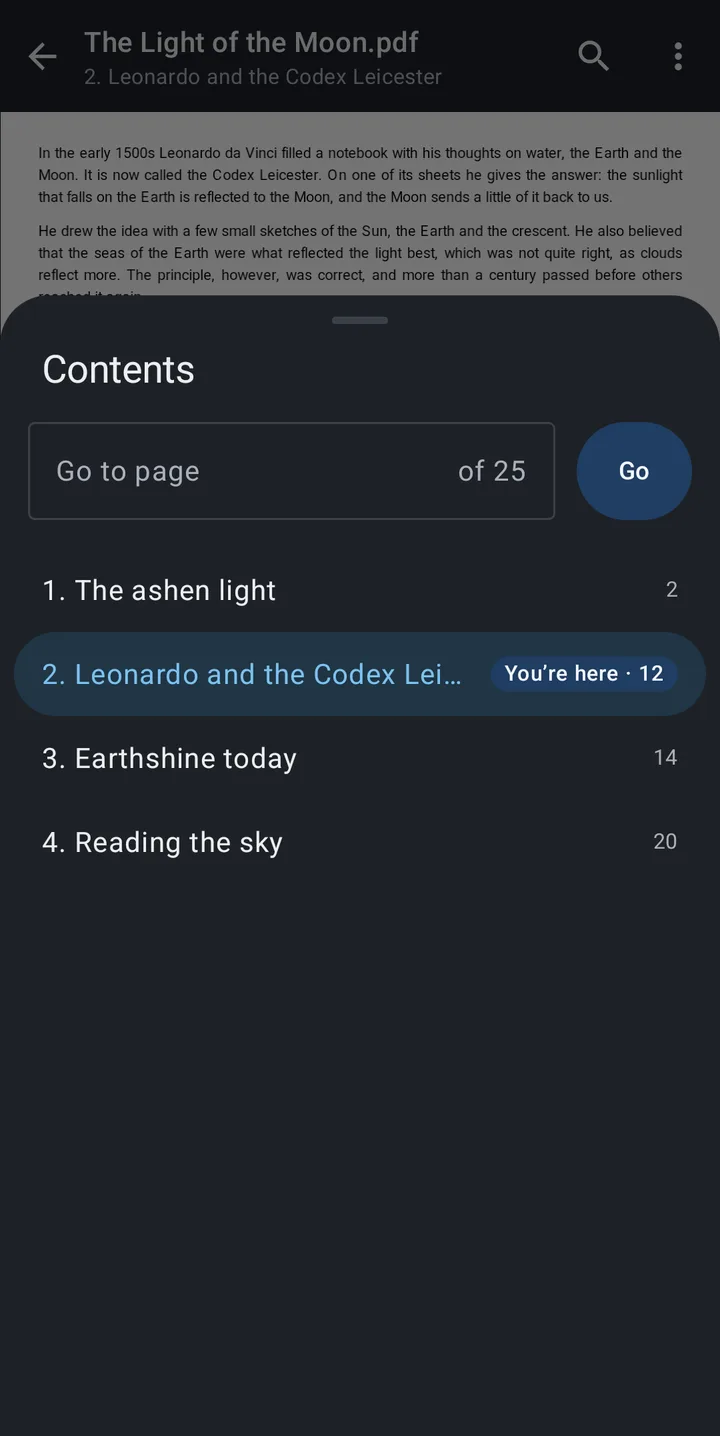
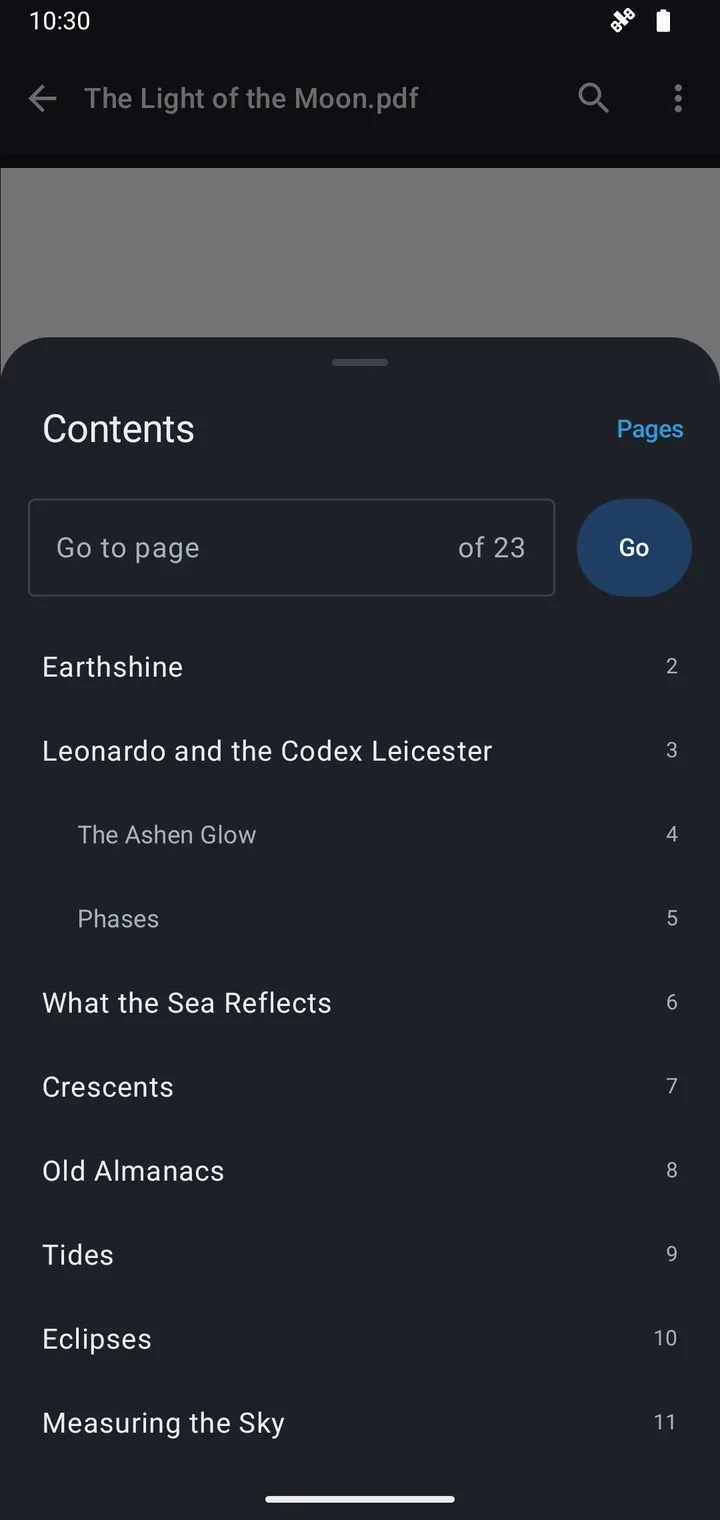
bump version to 0.3.0

diff --git a/lunaris-pdf/README.md b/lunaris-pdf/README.md
@@ -4,7 +4,7 @@
 
 <h1 align="center">Lunaris PDF</h1>
 
-<p align="center"><b>A PDF reader for Android that works offline, opens straight to your document, lets you mark it up and shows no ads.</b></p>
+<p align="center"><b>A PDF reader for Android that works offline, opens straight to your document, lets you mark it up, reorganize its pages and make new PDFs, and shows no ads.</b></p>
 
 <p align="center">by <a href="https://github.com/martindavinci">Martin DaVinci</a></p>
 
@@ -28,6 +28,11 @@
   <img src="docs/screenshots/annotate.webp" width="32%" alt="Highlights, a pen line, a note and a signature on a page, with the tools below">
   <img src="docs/screenshots/signatures.webp" width="32%" alt="The saved signatures, with a note saying that a drawn signature is not a digital one">
   <img src="docs/screenshots/save.webp" width="32%" alt="The question at the end: save a copy, save over the original, or discard">
+</p>
+<p align="center">
+  <img src="docs/screenshots/pages.webp" width="32%" alt="All the pages in a grid, three of them selected, with Rotate, Delete and Extract below">
+  <img src="docs/screenshots/split.webp" width="32%" alt="Splitting a PDF by page ranges, with the number of pages of each new file">
+  <img src="docs/screenshots/create.webp" width="32%" alt="A list of a PDF, an image, Markdown, HTML and text, about to become one PDF">
 </p>
 
 ## Download
@@ -61,6 +66,20 @@ since other Lunaris apps publish their releases here too.
 - Search as you type, with the matches counted, whole words and upper case if you want them
 - Select and copy text, contents, go to page
 - Night pages, with the colours of the page inverted, and a light, dark or system theme
+
+**Organizing pages**
+- All the pages in one grid: tap to select, long press to drag, a selected group moves as one
+- Rotate, delete or extract what is selected, with undo and redo
+- Add blank pages, pages from another PDF, or images
+- Split into page ranges you type, or into one file per page
+- Saving always makes a new file and leaves the original as it is. The new file has no outline, internal links or form
+  fields, and pages you deleted really leave it. A PDF with a password can be read, not changed
+
+**Creating PDFs**
+- One list for PDFs, images (JPG, PNG, WebP), text, Markdown and HTML, in any order, drag to change it
+- Text stays real text you can select and search, with a page size, direction and margins of your choice
+- HTML is read with no scripts and no network: a picture from the web becomes its description
+- Open it from the first screen, or share images to the app
 
 **Annotating**
 - A highlighter that follows the lines of the text, or goes free where there is no text, as on a scan
@@ -122,11 +141,14 @@ cd lunaris-essentials/lunaris-pdf
 ```
 
 Point Gradle to your SDK with `ANDROID_HOME` or a `local.properties` file containing `sdk.dir=…`. The pdf.js files in
-`app/src/main/assets/viewer` come from `tools/pdfjs/fetch-pdfjs.ps1`, which checks them against `manifest.json`.
+`app/src/main/assets/viewer` come from `tools/pdfjs/fetch-pdfjs.ps1`, and pdf-lib from `tools/pdflib/fetch-pdflib.ps1`;
+both check the download against their `manifest.json`.
 
 ## License
 
 GPL-3.0-or-later, see [LICENSE](../LICENSE). The name "Lunaris PDF" and its icon are not licensed as trademarks: see
 [TRADEMARKS.md](../TRADEMARKS.md). Documents are drawn with [PDF.js](https://github.com/mozilla/pdf.js), under the
-Apache-2.0 license like Jetpack Compose, DataStore and Dagger Hilt. The components shipped with PDF.js keep their own
-licenses; all of them are listed in the app, under Settings, Licenses.
+Apache-2.0 license like Jetpack Compose, DataStore and Dagger Hilt. New files are made with
+[pdf-lib](https://github.com/Hopding/pdf-lib) (MIT), and Markdown is read with
+[commonmark-java](https://github.com/commonmark/commonmark-java) (BSD-2-Clause). The components shipped with PDF.js keep
+their own licenses; all of them are listed in the app, under Settings, Licenses.

diff --git a/README.md b/README.md
@@ -43,12 +43,13 @@ been: they work offline, show nothing but your work, and stay out of your data.
 </tr>
 <tr>
 <td width="96" align="center"><a href="lunaris-pdf/"><img src="lunaris-pdf/app/src/main/ic_launcher-playstore.png" width="72" alt="Lunaris PDF icon"></a></td>
-<td><b><a href="lunaris-pdf/">Lunaris PDF</a></b><br>A PDF reader that opens straight to your document: a side scroller, search, annotations, forms, a drawn signature, and the JavaScript inside a PDF never runs. No system permissions at all.<br><br>
+<td><b><a href="lunaris-pdf/">Lunaris PDF</a></b><br>A PDF reader that opens straight to your document: a side scroller, search, annotations, forms, a drawn signature, organizing pages, making new PDFs, and the JavaScript inside a PDF never runs. No system permissions at all.<br><br>
 <a href="lunaris-pdf/"><img src="lunaris-pdf/docs/screenshots/reader.webp" width="104" alt="A document open"></a>
 <a href="lunaris-pdf/"><img src="lunaris-pdf/docs/screenshots/scroller.webp" width="104" alt="The side scroller being dragged"></a>
 <a href="lunaris-pdf/"><img src="lunaris-pdf/docs/screenshots/annotate.webp" width="104" alt="Highlights, a pen line and a signature on a page"></a>
 <a href="lunaris-pdf/"><img src="lunaris-pdf/docs/screenshots/settings.webp" width="104" alt="The settings"></a>
 <a href="lunaris-pdf/"><img src="lunaris-pdf/docs/screenshots/recents.webp" width="104" alt="The list of recent documents"></a>
+<a href="lunaris-pdf/"><img src="lunaris-pdf/docs/screenshots/pages.webp" width="104" alt="All the pages in a grid, three of them selected"></a>
 </td>
 </tr>
 </table>
